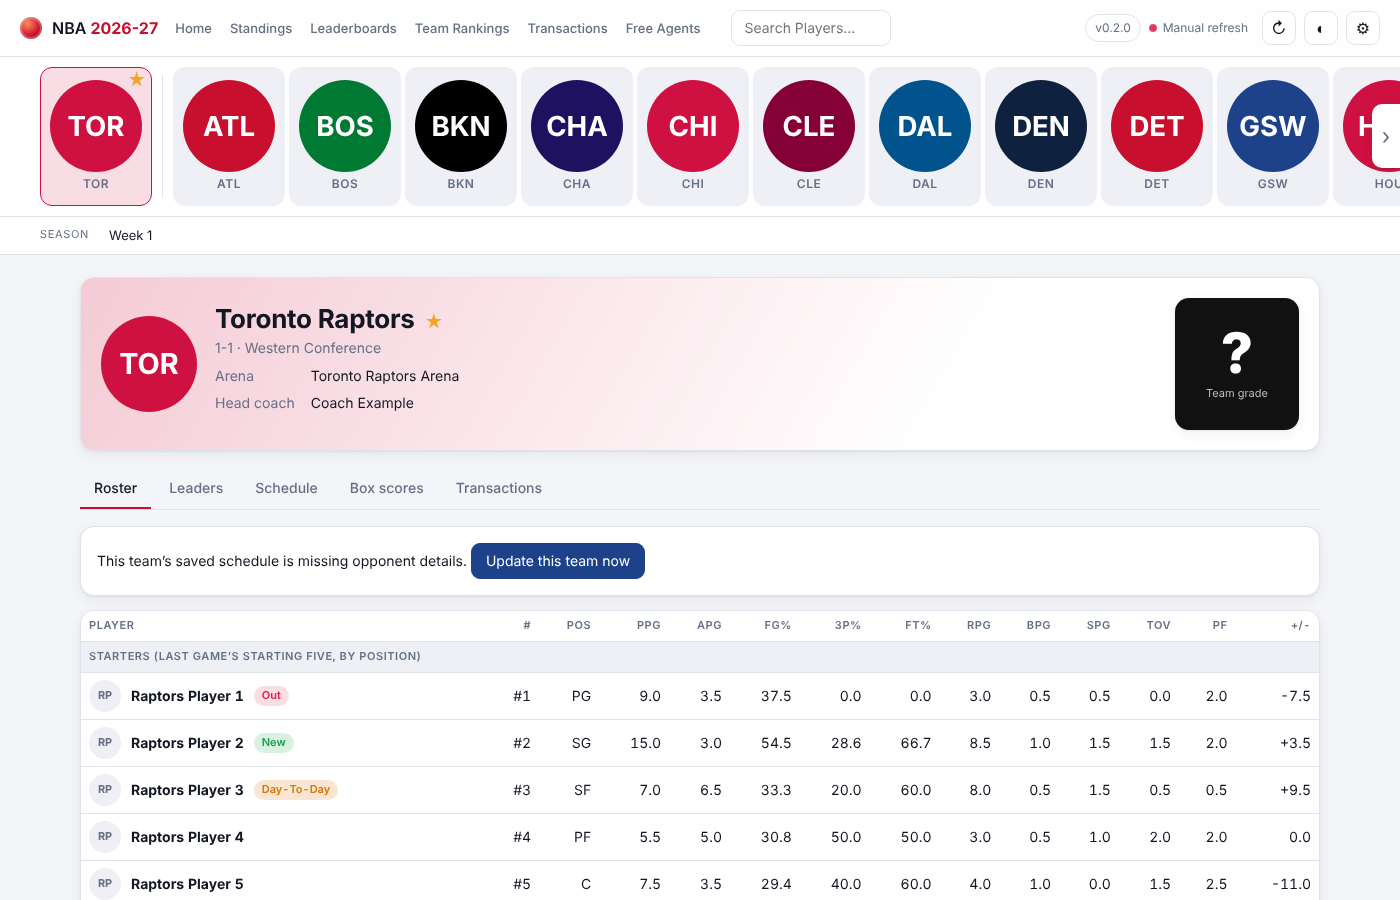
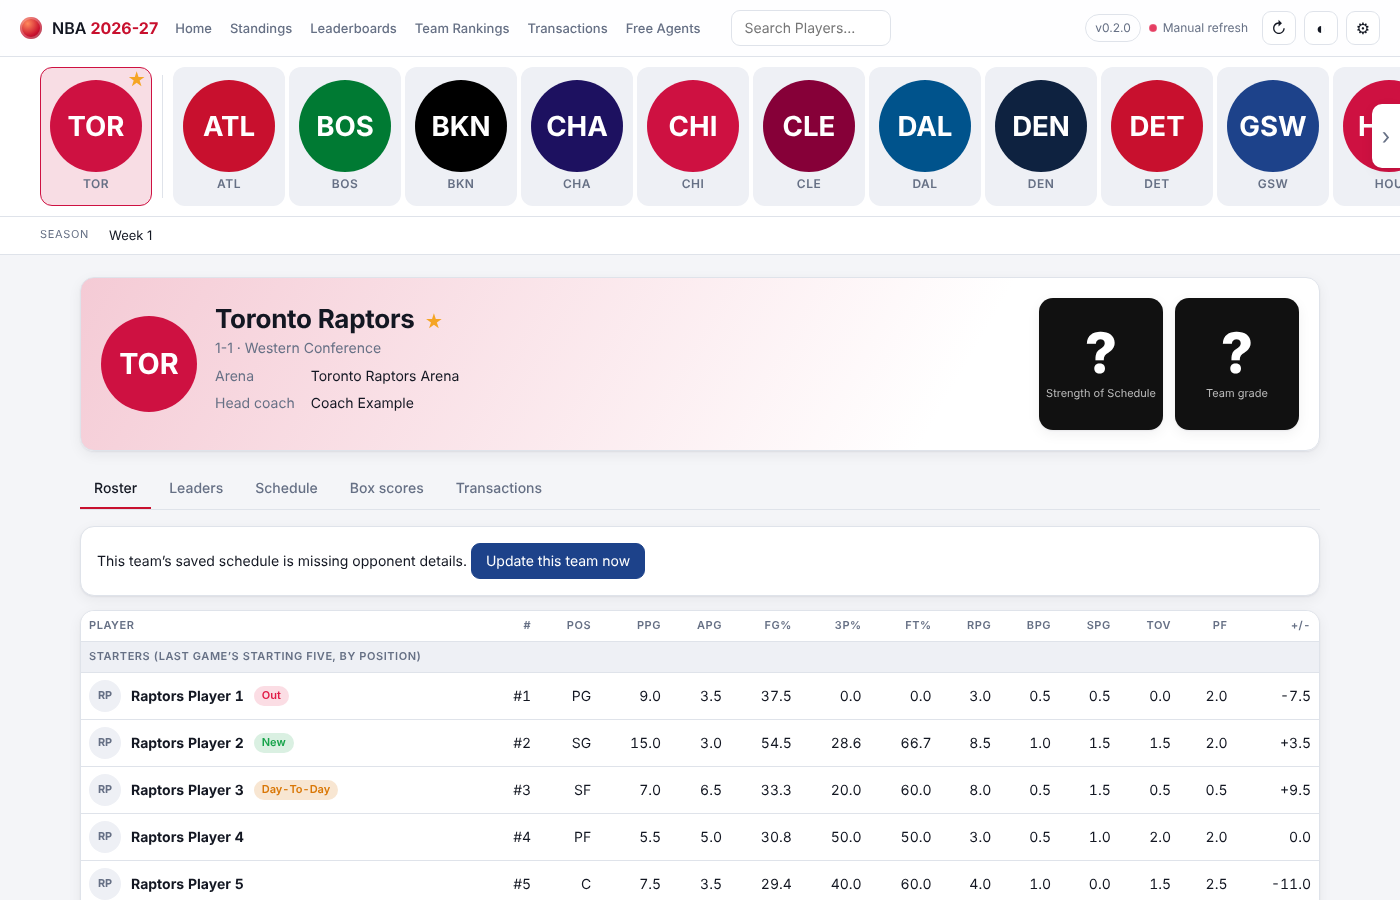
Feature - Remaining strength of schedule on team pages
Claude-Session: https://claude.ai/code/session_016H3S1Tf6ZiEigWsjrNXmq9

Changed region(s): [[0.7371, 0.3111, 0.8293, 0.4978]]

diff --git a/ui/js/views/team.js b/ui/js/views/team.js
@@ -7,8 +7,11 @@ import { teamRows, reportCard } from '../teamstats.js';
 import { gradesUnlocked } from './rankings.js';
 import { txTable } from './transactions.js';
 import { calc } from '../formulas.js';
+import { remainingSchedule, ordinal } from '../sos.js';
 
 let tab = 'roster';
+let sosShown = '';         // team whose schedule square has been clicked open
+let sosMemo = { key: '', res: null };
 let gradeShown = '';      // team whose grade square has been clicked open
 let gradeMemo = { rev: -1, method: '', rep: null };
 
@@ -50,7 +53,7 @@ function draw({ el, arg }) {
       h('dl', { class: 'kv', style: { marginTop: '8px' } },
         h('dt', null, 'Arena'), h('dd', null, arenaOf(arg, file)),
         h('dt', null, 'Head coach'), h('dd', null, file?.headCoach || '—'))),
-    gradeBox(arg, () => draw({ el, arg })));
+    h('div', { class: 'hero-boxes' }, sosBox(arg, () => draw({ el, arg })), gradeBox(arg, () => draw({ el, arg }))));
 
   const tabs = h('div', { class: 'tabs' }, [['roster', 'Roster'], ['leaders', 'Leaders'], ['schedule', 'Schedule'], ['results', 'Box scores'], ['tx', 'Transactions']].map(([k, label]) =>
     h('button', { class: tab === k ? 'active' : '', type: 'button', onclick: () => { tab = k; draw({ el, arg }); } }, label)));
@@ -77,6 +80,40 @@ function teamGrade(abbr) {
   const method = S.state.settings.ratingMethod || 'native';
   if (gradeMemo.rev !== L.rev || gradeMemo.method !== method || !gradeMemo.rep) gradeMemo = { rev: L.rev, method, rep: reportCard(teamRows(L.data, method)) };
   return gradeMemo.rep.find((r) => r.abbr === abbr) || null;
+}
+
+// Remaining strength of schedule: needs every team's saved schedule (for ranks) and the league's SRS.
+function teamSos(abbr) {
+  const L = S.state.league;
+  if (!L.data) return null;
+  const files = new Map(S.state.teams.map((t) => [t.abbr, S.state.teamFiles.get(t.abbr)]));
+  const loaded = [...files.values()].filter(Boolean).length;
+  const method = S.state.settings.ratingMethod || 'native';
+  const key = `${L.rev}|${loaded}|${method}`;
+  if (sosMemo.key !== key) sosMemo = { key, res: remainingSchedule(files, teamRows(L.data, method)) };
+  return { ...sosMemo.res, me: sosMemo.res.teams.get(abbr), all: loaded >= S.state.teams.length };
+}
+
+function sosBox(abbr, redraw) {
+  const open = sosShown === abbr;
+  const toggle = () => {
+    sosShown = open ? '' : abbr;
+    if (!open) { S.loadLeague(); S.state.teams.forEach((t) => S.loadTeamFile(t.abbr)); }      // all schedules, for the ranking
+    redraw();
+  };
+  const attrs = { ...calc('sos'), class: `grade-box ${open ? 'open' : ''}`, type: 'button', onclick: toggle };
+  if (!open) return h('button', attrs, h('span', { class: 'gb-q' }, '?'), h('small', null, 'Strength of Schedule'));
+  const r = teamSos(abbr);
+  if (!r || !r.me || !r.all) return h('button', attrs, h('span', { class: 'gb-q' }, '\u2013'), h('small', null, 'Loading\u2026'));
+  const m = r.me;
+  if (!m.left) return h('button', attrs, h('span', { class: 'gb-q' }, '\u2013'), h('small', null, 'No games left'));
+  const tone = m.allRank <= 10 ? 'hard' : m.allRank > m.of - 10 ? 'easy' : 'mid';
+  return h('button', attrs,
+    h('span', { class: `sos-val sos-${tone}` }, `${m.all > 0 ? '+' : ''}${m.all.toFixed(1)}`),
+    h('small', null, `${ordinal(m.allRank)} hardest of ${m.of}`),
+    h('span', { class: 'gb-parts' }, `Next ${Math.min(10, m.left)}: ${ordinal(m.nextRank)}`),
+    h('small', { class: 'gb-sub' }, `${m.left} left \u00b7 ${m.b2b} B2B`),
+    r.early ? h('small', { class: 'gb-early' }, 'Early season') : null);
 }
 
 function gradeBox(abbr, redraw) {

diff --git a/ui/js/sos.js b/ui/js/sos.js
@@ -1,0 +1,49 @@
+// Strength of schedule for the games a team has left: how hard its remaining opponents are, by rating, not record.
+// Uses the saved schedules (dates, home/road) and the league's SRS; no extra requests.
+
+export const SOS = { shrinkGames: 15, homeEdge: 1.25, b2bPenalty: 1.0, earlyGames: 20, nextN: 10 };
+
+const opp = (g, abbr) => {
+  let home = g.home, away = g.away;
+  const m = /^\s*(\S+)\s*@\s*(\S+)\s*$/.exec(g.name || '');
+  if (m) { away = away || m[1]; home = home || m[2]; }
+  if (home === abbr) return { team: away, home: true };
+  if (away === abbr) return { team: home, home: false };
+  return null;
+};
+const dayNum = (iso) => Math.floor(Date.parse(iso) / 864e5);
+
+// files: Map abbr -> team file ({ games: [{ date, state, home, away, name }] }); rows: teamRows() output (srs, games)
+export function remainingSchedule(files, rows) {
+  const rating = new Map(rows.map((r) => [r.abbr, Number.isFinite(r.srs) ? r.srs * (r.games / (r.games + SOS.shrinkGames)) : 0]));
+  const avgGp = rows.length ? rows.reduce((a, r) => a + r.games, 0) / rows.length : 0;
+  const out = new Map();
+  for (const [abbr, f] of files) {
+    if (!f || !f.games) continue;
+    const all = [...f.games].filter((g) => g.date).sort((a, b) => String(a.date).localeCompare(String(b.date)));
+    let prevDay = null;
+    const left = [];
+    for (const g of all) {
+      const d = dayNum(g.date);
+      const o = opp(g, abbr);
+      if (g.state !== 'post' && o && o.team) {
+        const b2b = prevDay != null && d - prevDay === 1;
+        const diff = (rating.get(o.team) || 0) + (o.home ? -SOS.homeEdge : SOS.homeEdge) + (b2b ? SOS.b2bPenalty : 0);
+        left.push({ diff, home: o.home, b2b, team: o.team, date: g.date });
+      }
+      prevDay = d;
+    }
+    const avg = (list) => (list.length ? list.reduce((a, x) => a + x.diff, 0) / list.length : NaN);
+    out.set(abbr, {
+      left: left.length, home: left.filter((x) => x.home).length, road: left.filter((x) => !x.home).length, b2b: left.filter((x) => x.b2b).length,
+      all: avg(left), next: avg(left.slice(0, SOS.nextN)), games: left,
+    });
+  }
+  // ranks: 1 = hardest
+  const rank = (k) => { const list = [...out.entries()].filter(([, v]) => Number.isFinite(v[k])).sort((a, b) => b[1][k] - a[1][k]); list.forEach(([a], i) => { out.get(a)[`${k}Rank`] = i + 1; }); return list.length; };
+  const n = rank('all'); rank('next');
+  for (const v of out.values()) v.of = n;
+  return { teams: out, early: avgGp < SOS.earlyGames, avgGp };
+}
+
+export const ordinal = (n) => { const s = ['th', 'st', 'nd', 'rd'], v = n % 100; return n + (s[(v - 20) % 10] || s[v] || s[0]); };

diff --git a/ui/js/formulas.js b/ui/js/formulas.js
@@ -44,6 +44,7 @@ const DEFS = {
   swing: () => ({ title: 'Biggest swing', formula: 'Largest change in win probability from one play to the next', why: 'The single play that moved the game most, by ESPN\u2019s win probability. A 3 in a tie game late matters more than one in a blowout, and this captures that.' }),
   clutch: () => ({ title: 'Clutch points', formula: 'Points scored in the last 5 minutes of the 4th quarter or overtime\nwhile the score was within 5', why: 'The NBA\u2019s own definition of clutch time. Only shown when the game had a clutch stretch.' }),
   form: () => ({ title: 'Form rating (DARKO-style)', formula: 'Game value = Game Score per 36 + 0.3 \u00d7 (+/- per 36)\nRating = Kalman filter over games in date order:\n  each game nudges it; short stints count less;\n  recent games count more; small samples stay near average\nShown vs league average (0 = average); arrow = last 5 games', why: 'Inspired by DARKO (Kostya Medvedovsky), which tracks how good a player is right now rather than his season average. This is a simple stand-in built from our own box scores, not DARKO itself.' }),
+  sos: () => ({ title: 'Remaining strength of schedule', formula: 'Average over the games left of:\n  opponent SRS \u00d7 GP / (GP + 15)\n  + 1.25 on the road, \u2212 1.25 at home\n  + 1.0 on the second night of a back-to-back\nRank 1 = hardest of the 30', why: 'How hard the rest of the season is, in points per game against an average schedule, by opponent strength rather than record. Early in the season opponent ratings are pulled toward average, so the numbers start small and firm up by midseason; they settle once rosters lock after the trade deadline.', note: methodLine() }),
   diff: () => ({ title: 'Point Differential', formula: 'Diff = (Points − Points allowed) / Games', why: 'Average winning (or losing) margin. Simple, but fast-paced games inflate it; Net Rating corrects for pace.' }),
   efg: () => ({ title: 'Effective FG%', formula: 'eFG% = (FGM + 0.5 × 3PM) / FGA', why: 'Field goal percentage that gives a made three the 1.5× credit it earns in points. The most important of the Four Factors.' }),
   eff: () => ({ title: 'Efficiency (EFF)', formula: 'EFF = (PTS + REB + AST + STL + BLK − missed FG − missed FT − TOV) / Games', why: 'The NBA’s classic all-in-one box score number. Easy to read; rewards volume more than shooting efficiency.' }),

diff --git a/ui/css/app.css b/ui/css/app.css
@@ -423,3 +423,10 @@ a.plink:hover { color: var(--accent2); }
 /* six nav links: tighten earlier, and drop the brand text on narrow windows */
 @media (max-width: 1440px) { #topbar { gap: 10px; } .nav a { padding: 6px 7px; font-size: 13px; } .psearch input { width: 160px; } }
 @media (max-width: 1180px) { .brand-text { display: none; } .psearch input { width: 130px; } .nav { gap: 0; } }
+
+/* remaining strength of schedule square */
+.hero-boxes { margin-left: auto; display: flex; gap: 12px; flex: 0 0 auto; }
+.hero-boxes .grade-box { margin-left: 0; }
+.sos-val { font-size: 28px; font-weight: 800; line-height: 1.1; }
+.sos-hard { color: #cc3b3b; } .sos-mid { color: #b7892b; } .sos-easy { color: #1f9d55; }
+.grade-box .gb-sub { font-size: 10.5px; }

diff --git a/CHANGELOG.md b/CHANGELOG.md
@@ -7,6 +7,7 @@ Release rhythm: changes are merged as they are done without changing VERSION, an
 ## Unreleased
 
 **Feature**
+- Team pages get a Strength of Schedule square: how hard the remaining games are, ranked against the league.
 - New Free Agents page: recently waived players (including ESPN's official transactions list, loaded on request), a watch list with notes, and a notice when a watched player signs.
 
 **Bug/Fix**
